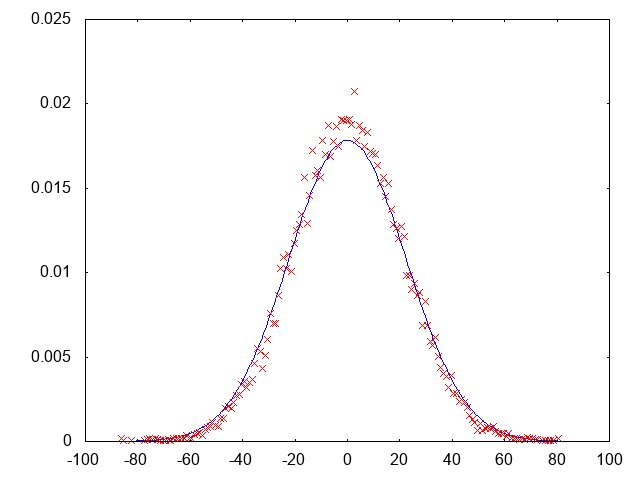
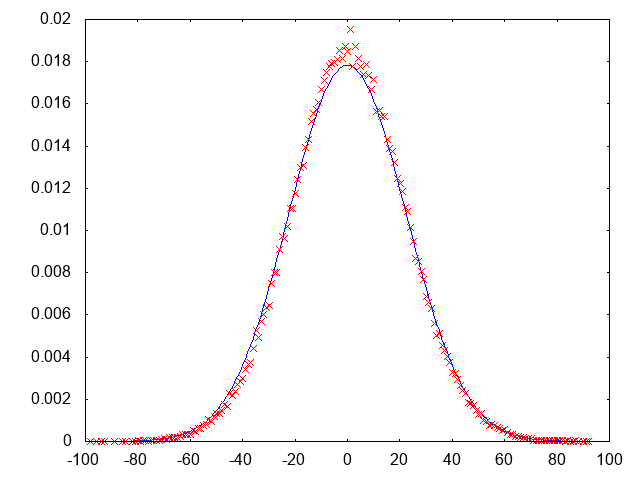
Change sample num.

diff --git a/src/main.rs b/src/main.rs
@@ -225,7 +225,7 @@ fn main() {
     let n_dim = 2;
     let mean: f64 = 0.0;
     let std_d: f64 = 500.0;
-    let sample_num: i32 = 20000;
+    let sample_num: i32 = 200000;
 
     // Metro-Polis Hasting method sampling from multi-dim gaussian
     // parameter for target dist
